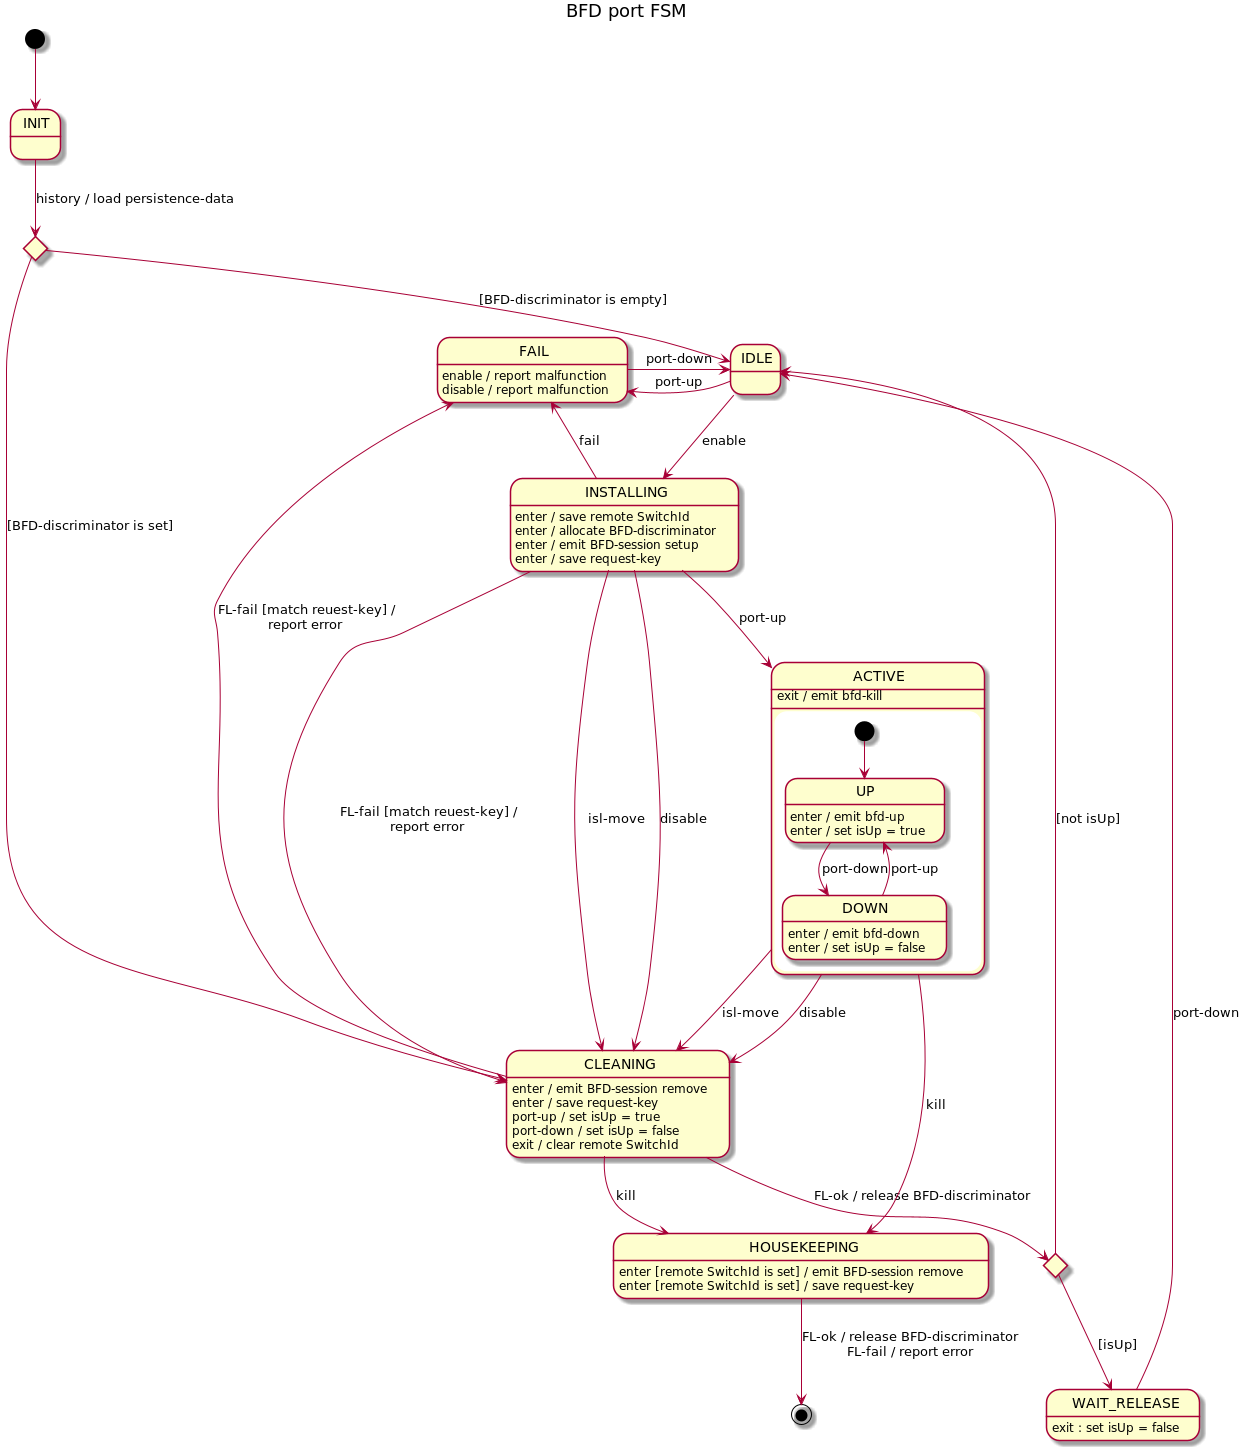
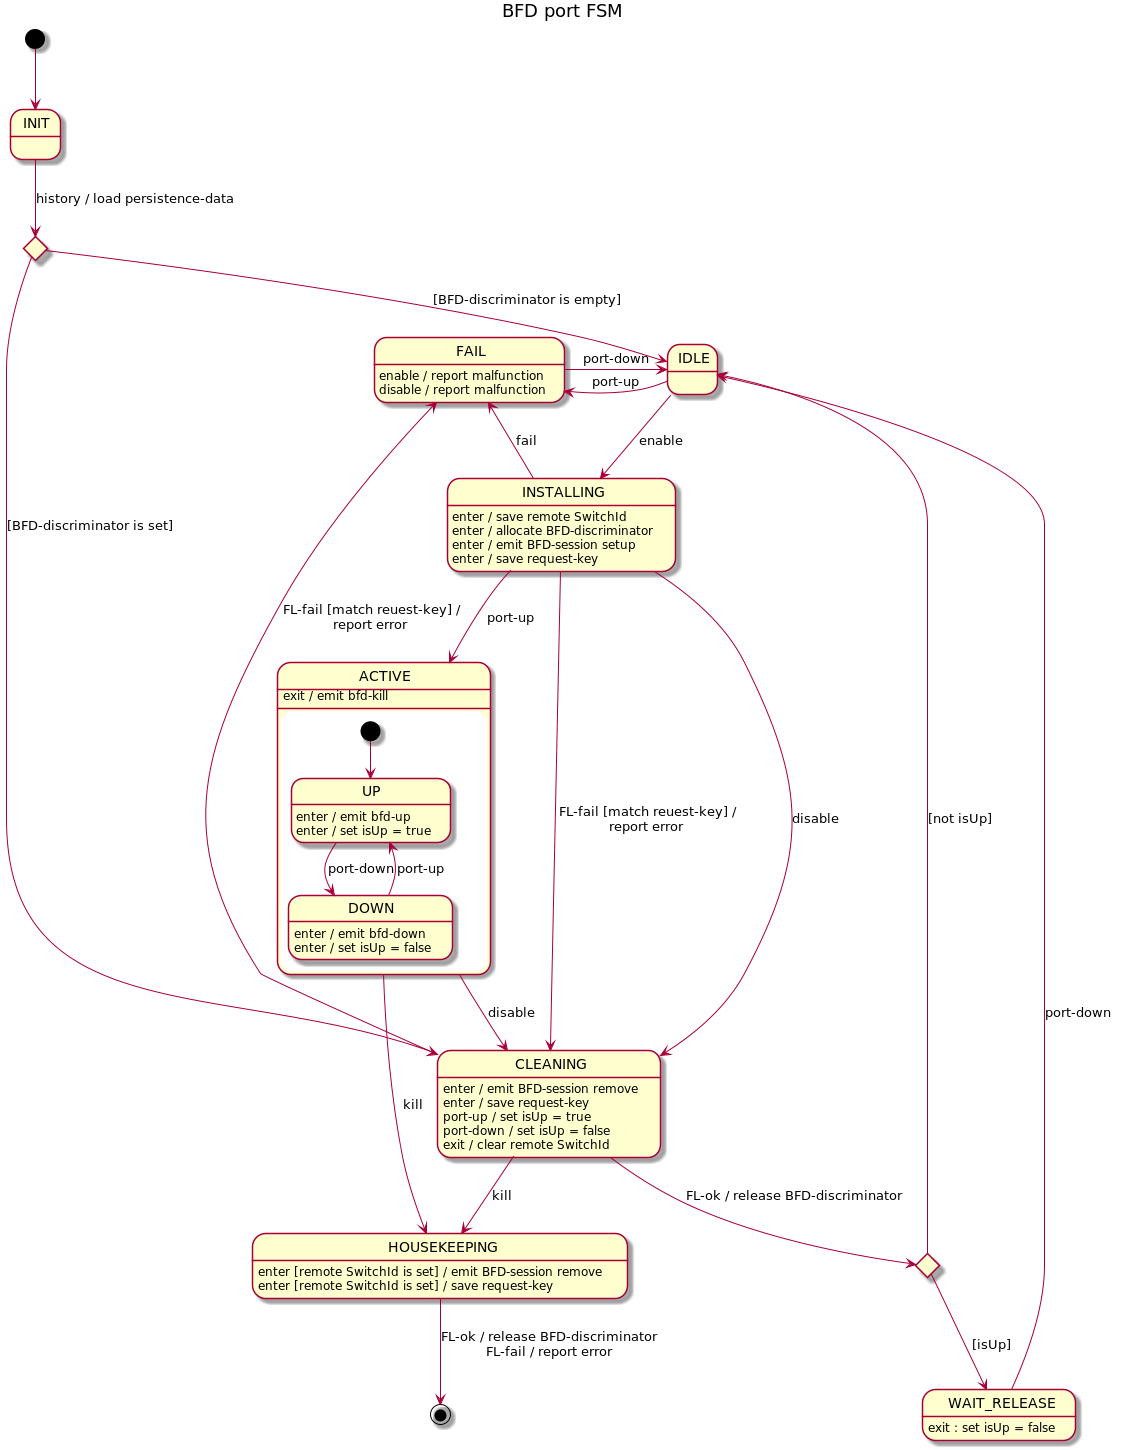
Decouple BFD-session managent from IslFsm state

diff --git a/services/wfm/src/main/java/org/openkilda/wfm/topology/network/controller/IslFsm.java b/services/wfm/src/main/java/org/openkilda/wfm/topology/network/controller/IslFsm.java
@@ -50,6 +50,7 @@ import org.openkilda.wfm.topology.network.model.IslReference;
 import org.openkilda.wfm.topology.network.model.NetworkOptions;
 import org.openkilda.wfm.topology.network.model.facts.DiscoveryFacts;
 import org.openkilda.wfm.topology.network.service.IIslCarrier;
+import org.openkilda.wfm.topology.network.storm.bolt.isl.BfdManager;
 
 import lombok.Builder;
 import lombok.Value;
@@ -71,6 +72,8 @@ public final class IslFsm extends AbstractBaseFsm<IslFsm, IslFsmState, IslFsmEve
     private final TransactionManager transactionManager;
     private final FeatureTogglesRepository featureTogglesRepository;
 
+    private final BfdManager bfdManager;
+
     private final int costRaiseOnPhysicalDown;
     private final int islCostWhenUnderMaintenance;
     private final BiIslDataHolder<IslEndpointStatus> endpointStatus;
@@ -85,7 +88,7 @@ public final class IslFsm extends AbstractBaseFsm<IslFsm, IslFsmState, IslFsmEve
         builder = StateMachineBuilderFactory.create(
                 IslFsm.class, IslFsmState.class, IslFsmEvent.class, IslFsmContext.class,
                 // extra parameters
-                PersistenceManager.class, NetworkOptions.class, IslReference.class);
+                PersistenceManager.class, BfdManager.class, NetworkOptions.class, IslReference.class);
 
         String updateEndpointStatusMethod = "updateEndpointStatus";
         String updateAndPersistEndpointStatusMethod = "updateAndPersistEndpointStatus";
@@ -103,7 +106,8 @@ public final class IslFsm extends AbstractBaseFsm<IslFsm, IslFsmState, IslFsmEve
         builder.transition()
                 .from(IslFsmState.INIT).to(IslFsmState.DOWN).on(IslFsmEvent._HISTORY_DOWN);
         builder.transition()
-                .from(IslFsmState.INIT).to(IslFsmState.UP).on(IslFsmEvent._HISTORY_UP);
+                .from(IslFsmState.INIT).to(IslFsmState.UP).on(IslFsmEvent._HISTORY_UP)
+                .callMethod("historyRestoreUp");
         builder.transition()
                 .from(IslFsmState.INIT).to(IslFsmState.MOVED).on(IslFsmEvent._HISTORY_MOVED);
         builder.internalTransition()
@@ -141,8 +145,6 @@ public final class IslFsm extends AbstractBaseFsm<IslFsm, IslFsmState, IslFsmEve
                 .from(IslFsmState.UP).to(IslFsmState.DOWN).on(IslFsmEvent.ISL_DOWN);
         builder.transition()
                 .from(IslFsmState.UP).to(IslFsmState.MOVED).on(IslFsmEvent.ISL_MOVE);
-        builder.internalTransition().within(IslFsmState.UP).on(IslFsmEvent.BFD_UPDATE)
-                .callMethod("handleBfdEnableDisable");
         builder.onEntry(IslFsmState.UP)
                 .callMethod("upEnter");
         builder.onExit(IslFsmState.UP)
@@ -174,14 +176,15 @@ public final class IslFsm extends AbstractBaseFsm<IslFsm, IslFsmState, IslFsmEve
     /**
      * Create and properly initialize new {@link IslFsm}.
      */
-    public static IslFsm create(PersistenceManager persistenceManager, NetworkOptions options,
+    public static IslFsm create(PersistenceManager persistenceManager, BfdManager bfdManager, NetworkOptions options,
                                 IslReference reference) {
-        IslFsm fsm = builder.newStateMachine(IslFsmState.INIT, persistenceManager, options, reference);
+        IslFsm fsm = builder.newStateMachine(IslFsmState.INIT, persistenceManager, bfdManager, options, reference);
         fsm.start();
         return fsm;
     }
 
-    public IslFsm(PersistenceManager persistenceManager, NetworkOptions options, IslReference reference) {
+    public IslFsm(PersistenceManager persistenceManager, BfdManager bfdManager, NetworkOptions options,
+                  IslReference reference) {
         RepositoryFactory repositoryFactory = persistenceManager.getRepositoryFactory();
         islRepository = repositoryFactory.createIslRepository();
         linkPropsRepository = repositoryFactory.createLinkPropsRepository();
@@ -190,6 +193,8 @@ public final class IslFsm extends AbstractBaseFsm<IslFsm, IslFsmState, IslFsmEve
         featureTogglesRepository = repositoryFactory.createFeatureTogglesRepository();
 
         transactionManager = persistenceManager.getTransactionManager();
+
+        this.bfdManager = bfdManager;
 
         costRaiseOnPhysicalDown = options.getIslCostRaiseOnPhysicalDown();
         islCostWhenUnderMaintenance = options.getIslCostWhenUnderMaintenance();
@@ -222,6 +227,12 @@ public final class IslFsm extends AbstractBaseFsm<IslFsm, IslFsmState, IslFsmEve
         }
 
         fire(route, context);
+    }
+
+    public void historyRestoreUp(IslFsmState from, IslFsmState to, IslFsmEvent event, IslFsmContext context) {
+        if (shouldSetupBfd()) {
+            bfdManager.enable(context.getOutput());
+        }
     }
 
     public void handleInitialDiscovery(IslFsmState from, IslFsmState to, IslFsmEvent event, IslFsmContext context) {
@@ -266,10 +277,6 @@ public final class IslFsm extends AbstractBaseFsm<IslFsm, IslFsmState, IslFsmEve
             // Do not produce reroute during recovery system state from DB
             triggerDownFlowReroute(context);
         }
-
-        if (shouldSetupBfd()) {
-            emitBfdEnableRequest(context);
-        }
     }
 
     public void upExit(IslFsmState from, IslFsmState to, IslFsmEvent event, IslFsmContext context) {
@@ -294,14 +301,7 @@ public final class IslFsm extends AbstractBaseFsm<IslFsm, IslFsmState, IslFsmEve
     public void movedEnter(IslFsmState from, IslFsmState to, IslFsmEvent event, IslFsmContext context) {
         log.info("ISL {} become {}", discoveryFacts.getReference(), to);
         saveStatusTransaction();
-    }
-
-    public void handleBfdEnableDisable(IslFsmState from, IslFsmState to, IslFsmEvent event, IslFsmContext context) {
-        if (context.getBfdEnable()) {
-            emitBfdEnableRequest(context);
-        } else {
-            emitBfdDisableRequest(context);
-        }
+        bfdManager.disable(context.getOutput());
     }
 
     public void removeAttempt(IslFsmState from, IslFsmState to, IslFsmEvent event, IslFsmContext context) {
@@ -375,18 +375,6 @@ public final class IslFsm extends AbstractBaseFsm<IslFsm, IslFsmState, IslFsmEve
                     "ISL %s status become %s", discoveryFacts.getReference(), IslStatus.ACTIVE));
             context.getOutput().triggerReroute(trigger);
         }
-    }
-
-    private void emitBfdEnableRequest(IslFsmContext context) {
-        IslReference reference = discoveryFacts.getReference();
-        context.getOutput().bfdEnableRequest(reference.getSource(), reference);
-        context.getOutput().bfdEnableRequest(reference.getDest(), reference);
-    }
-
-    private void emitBfdDisableRequest(IslFsmContext context) {
-        IslReference reference = discoveryFacts.getReference();
-        context.getOutput().bfdDisableRequest(reference.getSource());
-        context.getOutput().bfdDisableRequest(reference.getDest());
     }
 
     private void saveAllTransaction() {
@@ -784,8 +772,6 @@ public final class IslFsm extends AbstractBaseFsm<IslFsm, IslFsmState, IslFsmEve
 
     public enum IslFsmEvent {
         NEXT,
-
-        BFD_UPDATE,
 
         HISTORY, _HISTORY_DOWN, _HISTORY_UP, _HISTORY_MOVED,
         ISL_UP, ISL_DOWN, ISL_MOVE,

diff --git a/services/wfm/src/main/java/org/openkilda/wfm/topology/network/service/NetworkIslService.java b/services/wfm/src/main/java/org/openkilda/wfm/topology/network/service/NetworkIslService.java
@@ -28,6 +28,7 @@ import org.openkilda.wfm.topology.network.model.Endpoint;
 import org.openkilda.wfm.topology.network.model.IslDataHolder;
 import org.openkilda.wfm.topology.network.model.IslReference;
 import org.openkilda.wfm.topology.network.model.NetworkOptions;
+import org.openkilda.wfm.topology.network.storm.bolt.isl.BfdManager;
 
 import lombok.extern.slf4j.Slf4j;
 
@@ -36,7 +37,7 @@ import java.util.Map;
 
 @Slf4j
 public class NetworkIslService {
-    private final Map<IslReference, IslFsm> controller = new HashMap<>();
+    private final Map<IslReference, IslController> controller = new HashMap<>();
 
     private final FsmExecutor<IslFsm, IslFsmState, IslFsmEvent, IslFsmContext> controllerExecutor
             = IslFsm.makeExecutor();
@@ -59,12 +60,12 @@ public class NetworkIslService {
         if (!controller.containsKey(reference)) {
             ensureControllerIsMissing(reference);
 
-            IslFsm fsm = IslFsm.create(persistenceManager, options, reference);
-            controller.put(reference, fsm);
+            IslController islController = new IslController(persistenceManager, options, reference);
+            controller.put(reference, islController);
             IslFsmContext context = IslFsmContext.builder(carrier, endpoint)
                     .history(history)
                     .build();
-            controllerExecutor.fire(fsm, IslFsmEvent.HISTORY, context);
+            controllerExecutor.fire(islController.fsm, IslFsmEvent.HISTORY, context);
         } else {
             log.error("Receive HISTORY data for already created ISL - ignore history "
                               + "(possible start-up race condition)");
@@ -76,7 +77,7 @@ public class NetworkIslService {
      */
     public void islUp(Endpoint endpoint, IslReference reference, IslDataHolder islData) {
         log.debug("ISL service receive DISCOVERY notification for {} (on {})", reference, endpoint);
-        IslFsm islFsm = locateControllerCreateIfAbsent(reference);
+        IslFsm islFsm = locateControllerCreateIfAbsent(reference).fsm;
         IslFsmContext context = IslFsmContext.builder(carrier, endpoint)
                 .islData(islData)
                 .build();
@@ -88,7 +89,7 @@ public class NetworkIslService {
      */
     public void islDown(Endpoint endpoint, IslReference reference, IslDownReason reason) {
         log.debug("ISL service receive FAIL notification for {} (on {})", reference, endpoint);
-        IslFsm islFsm = locateController(reference);
+        IslFsm islFsm = locateController(reference).fsm;
         IslFsmContext context = IslFsmContext.builder(carrier, endpoint)
                 .downReason(reason)
                 .build();
@@ -100,7 +101,7 @@ public class NetworkIslService {
      */
     public void islMove(Endpoint endpoint, IslReference reference) {
         log.debug("ISL service receive MOVED(FAIL) notification for {} (on {})", reference, endpoint);
-        IslFsm islFsm = locateController(reference);
+        IslFsm islFsm = locateController(reference).fsm;
         IslFsmContext context = IslFsmContext.builder(carrier, endpoint).build();
         controllerExecutor.fire(islFsm, IslFsmEvent.ISL_MOVE, context);
     }
@@ -111,18 +112,19 @@ public class NetworkIslService {
     public void bfdEnableDisable(IslReference reference, IslBfdFlagUpdated payload) {
         log.debug("ISL service receive allow-BFD switch update notification for {} new-status:{}",
                   reference, payload.isEnableBfd());
-        IslFsm islFsm = locateController(reference);
-        IslFsmContext context = IslFsmContext.builder(carrier, reference.getSource())
-                .bfdEnable(payload.isEnableBfd())
-                .build();
-        controllerExecutor.fire(islFsm, IslFsmEvent.BFD_UPDATE, context);
+        BfdManager bfdManager = locateController(reference).bfdManager;
+        if (payload.isEnableBfd()) {
+            bfdManager.enable(carrier);
+        } else {
+            bfdManager.disable(carrier);
+        }
     }
 
     /**
      * Remove isl by request.
      */
     public void remove(IslReference reference) {
-        IslFsm fsm = controller.get(reference);
+        IslFsm fsm = controller.get(reference).fsm;
         if (fsm == null) {
             log.info("Got DELETE request for not existing ISL {}", reference);
             return;
@@ -142,22 +144,32 @@ public class NetworkIslService {
     // -- private --
 
     private void ensureControllerIsMissing(IslReference reference) {
-        IslFsm fsm = controller.get(reference);
-        if (fsm != null) {
+        IslController islController = controller.get(reference);
+        if (islController != null) {
             throw new IllegalStateException(String.format("ISL FSM for %s already exist (it's state is %s)",
-                                                          reference, fsm.getCurrentState()));
+                                                          reference, islController.fsm.getCurrentState()));
         }
     }
 
-    private IslFsm locateController(IslReference reference) {
-        IslFsm fsm = controller.get(reference);
-        if (fsm == null) {
+    private IslController locateController(IslReference reference) {
+        IslController islController = controller.get(reference);
+        if (islController == null) {
             throw new IllegalStateException(String.format("There is no ISL FSM for %s", reference));
         }
-        return fsm;
+        return islController;
     }
 
-    private IslFsm locateControllerCreateIfAbsent(IslReference reference) {
-        return controller.computeIfAbsent(reference, key -> IslFsm.create(persistenceManager, options, reference));
+    private IslController locateControllerCreateIfAbsent(IslReference reference) {
+        return controller.computeIfAbsent(reference, key -> new IslController(persistenceManager, options, reference));
+    }
+
+    private static final class IslController {
+        private final IslFsm fsm;
+        private final BfdManager bfdManager;
+
+        private IslController(PersistenceManager persistenceManager, NetworkOptions options, IslReference reference) {
+            bfdManager = new BfdManager(reference);
+            fsm = IslFsm.create(persistenceManager, bfdManager, options, reference);
+        }
     }
 }

diff --git a/services/wfm/src/main/java/org/openkilda/wfm/topology/network/storm/bolt/isl/BfdManager.java b/services/wfm/src/main/java/org/openkilda/wfm/topology/network/storm/bolt/isl/BfdManager.java
@@ -1,0 +1,37 @@
+/* Copyright 2019 Telstra Open Source
+ *
+ *   Licensed under the Apache License, Version 2.0 (the "License");
+ *   you may not use this file except in compliance with the License.
+ *   You may obtain a copy of the License at
+ *
+ *       http://www.apache.org/licenses/LICENSE-2.0
+ *
+ *   Unless required by applicable law or agreed to in writing, software
+ *   distributed under the License is distributed on an "AS IS" BASIS,
+ *   WITHOUT WARRANTIES OR CONDITIONS OF ANY KIND, either express or implied.
+ *   See the License for the specific language governing permissions and
+ *   limitations under the License.
+ */
+
+package org.openkilda.wfm.topology.network.storm.bolt.isl;
+
+import org.openkilda.wfm.topology.network.model.IslReference;
+import org.openkilda.wfm.topology.network.service.IIslCarrier;
+
+public class BfdManager {
+    private final IslReference reference;
+
+    public BfdManager(IslReference reference) {
+        this.reference = reference;
+    }
+
+    public void enable(IIslCarrier carrier) {
+        carrier.bfdEnableRequest(reference.getSource(), reference);
+        carrier.bfdEnableRequest(reference.getDest(), reference);
+    }
+
+    public void disable(IIslCarrier carrier) {
+        carrier.bfdDisableRequest(reference.getSource());
+        carrier.bfdDisableRequest(reference.getDest());
+    }
+}

diff --git a/services/wfm/src/main/java/org/openkilda/wfm/topology/network/controller/BfdPortFsm.java b/services/wfm/src/main/java/org/openkilda/wfm/topology/network/controller/BfdPortFsm.java
@@ -114,8 +114,6 @@ public final class BfdPortFsm extends
         builder.transition()
                 .from(BfdPortFsmState.INSTALLING).to(BfdPortFsmState.CLEANING).on(BfdPortFsmEvent.DISABLE);
         builder.transition()
-                .from(BfdPortFsmState.INSTALLING).to(BfdPortFsmState.CLEANING).on(BfdPortFsmEvent.BI_ISL_MOVE);
-        builder.transition()
                 .from(BfdPortFsmState.INSTALLING).to(BfdPortFsmState.FAIL).on(BfdPortFsmEvent.FAIL);
         builder.onEntry(BfdPortFsmState.INSTALLING)
                 .callMethod("installingEnter");
@@ -161,8 +159,6 @@ public final class BfdPortFsm extends
         // ACTIVE
         builder.transition()
                 .from(BfdPortFsmState.ACTIVE).to(BfdPortFsmState.CLEANING).on(BfdPortFsmEvent.DISABLE);
-        builder.transition()
-                .from(BfdPortFsmState.ACTIVE).to(BfdPortFsmState.CLEANING).on(BfdPortFsmEvent.BI_ISL_MOVE);
         builder.transition()
                 .from(BfdPortFsmState.ACTIVE).to(BfdPortFsmState.HOUSEKEEPING).on(BfdPortFsmEvent.KILL);
         builder.onExit(BfdPortFsmState.ACTIVE)
@@ -542,7 +538,6 @@ public final class BfdPortFsm extends
 
         HISTORY,
         ENABLE, DISABLE,
-        BI_ISL_MOVE,
         PORT_UP, PORT_DOWN,
 
         SPEAKER_SUCCESS, SPEAKER_FAIL,
